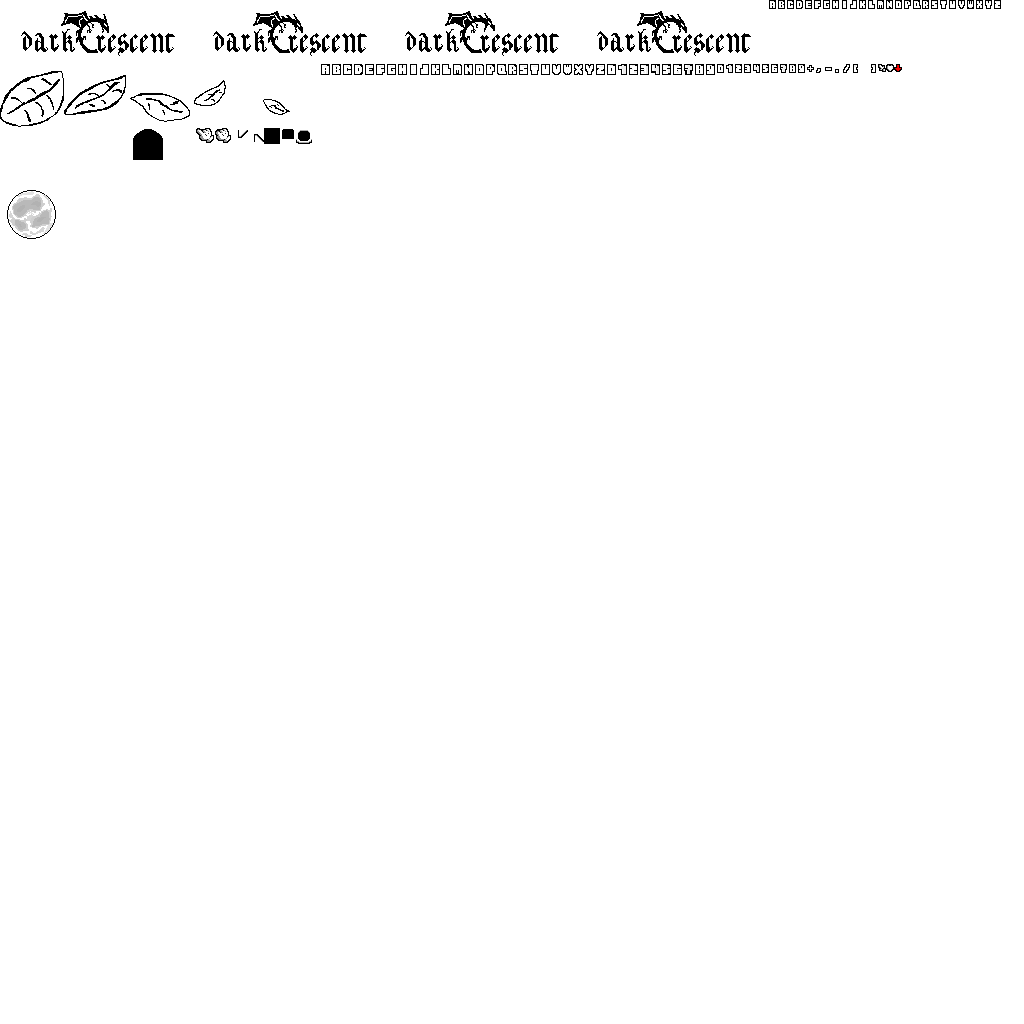
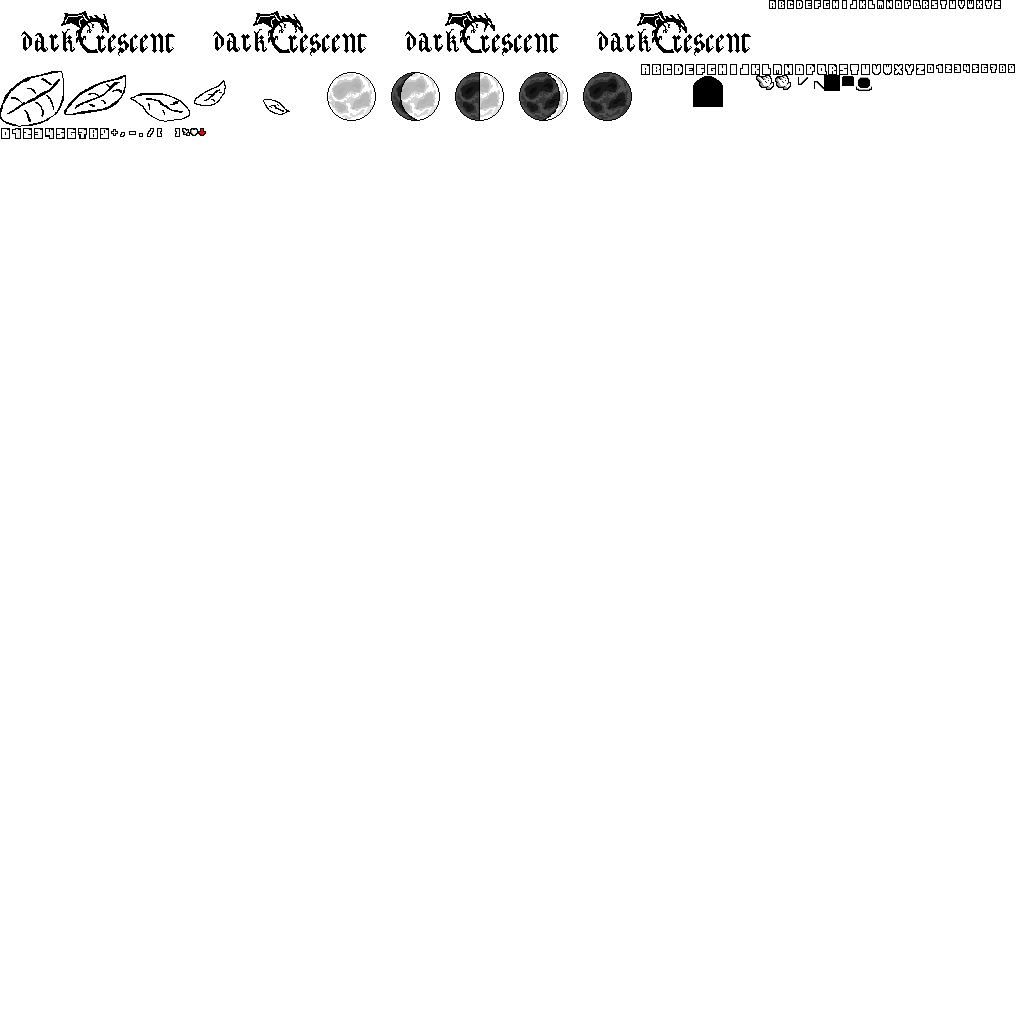
[WIP] Adding moon effects.

diff --git a/GraphicsEngine/Game/Src/Levels/MainLevel.cpp b/GraphicsEngine/Game/Src/Levels/MainLevel.cpp
@@ -1666,18 +1666,27 @@ namespace game
 			if(backgroundType == BackgroundType::moonLight)
 			{
 				auto& atlasTexture = info.atlasTextures[static_cast<uint32_t>(TextureId::moon)];
-				auto subTexture = atlasTexture.subTexture;
+				jv::ge::SubTexture moonFrames[5];
+				Divide(atlasTexture.subTexture, moonFrames, 5);
 
-				glm::ivec2 positionOffsets[3]{
+				glm::ivec2 positionOffsets[5]{
 					glm::ivec2(90, 10),
 					glm::ivec2(60, 30),
-					glm::ivec2(0, 80)
+					glm::ivec2(0, 60),
+					glm::ivec2(-60, 30),
+					glm::ivec2(-90, 10)
 				};
 
+				// temp.
+				static float f = 0;
+				f += info.deltaTime * 2;
+
+				uint32_t index = static_cast<uint32_t>(floor(fmodf(f, 5)));
+
 				PixelPerfectRenderTask renderTask{};
-				renderTask.scale = atlasTexture.resolution;
-				renderTask.subTexture = subTexture;
-				renderTask.position = glm::ivec2(SIMULATED_RESOLUTION / 2) + glm::ivec2(0, 80);
+				renderTask.scale = atlasTexture.resolution / glm::ivec2(5, 1);
+				renderTask.subTexture = moonFrames[index];
+				renderTask.position = glm::ivec2(SIMULATED_RESOLUTION / 2) + positionOffsets[index];
 				renderTask.xCenter = true;
 				info.renderTasks.Push(renderTask);
 			}

diff --git a/GraphicsEngine/Game/Src/Interpreters/TextInterpreter.cpp b/GraphicsEngine/Game/Src/Interpreters/TextInterpreter.cpp
@@ -43,7 +43,7 @@ namespace game
 			const auto c = str[i];
 			if (c == ' ')
 			{
-				if (i - lineStart >= lineLength) // todo fix
+				if (i - lineStart >= lineLength)
 				{
 					if (lastBreakPointFound != -1)
 					{
